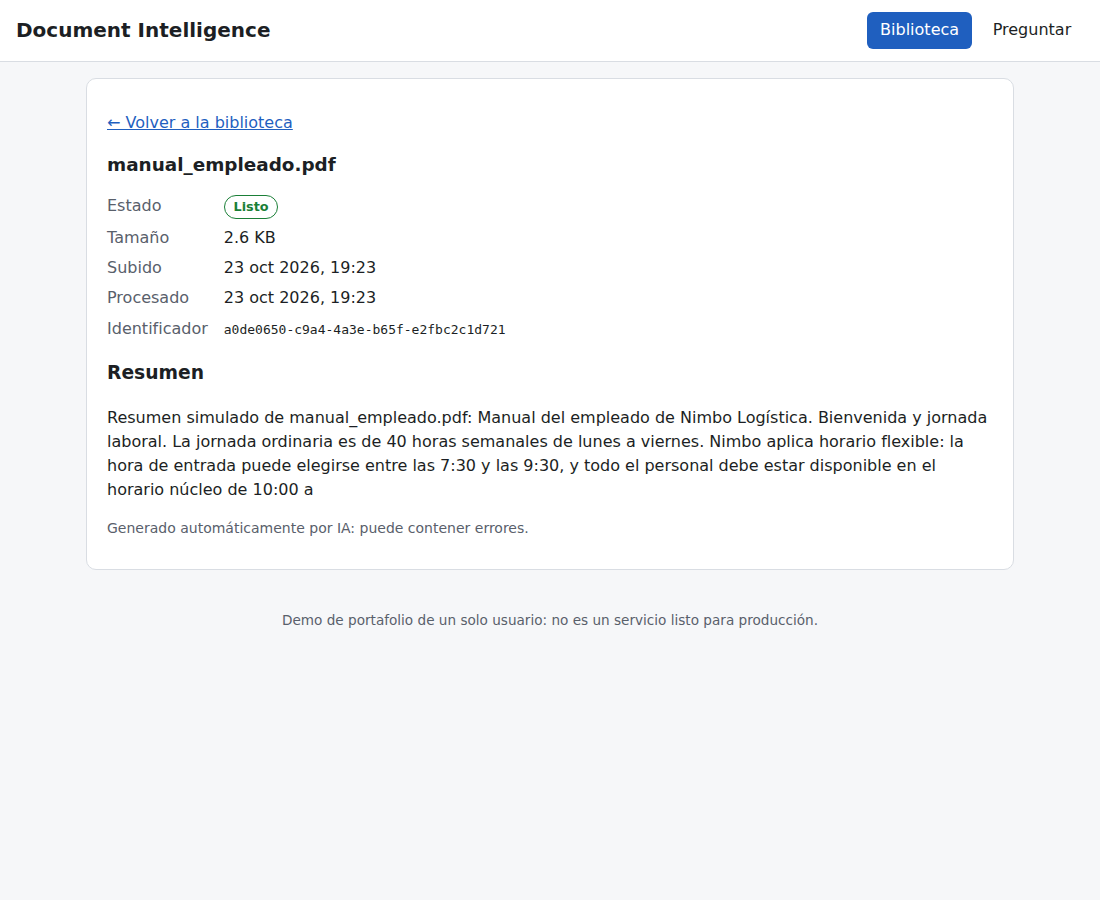
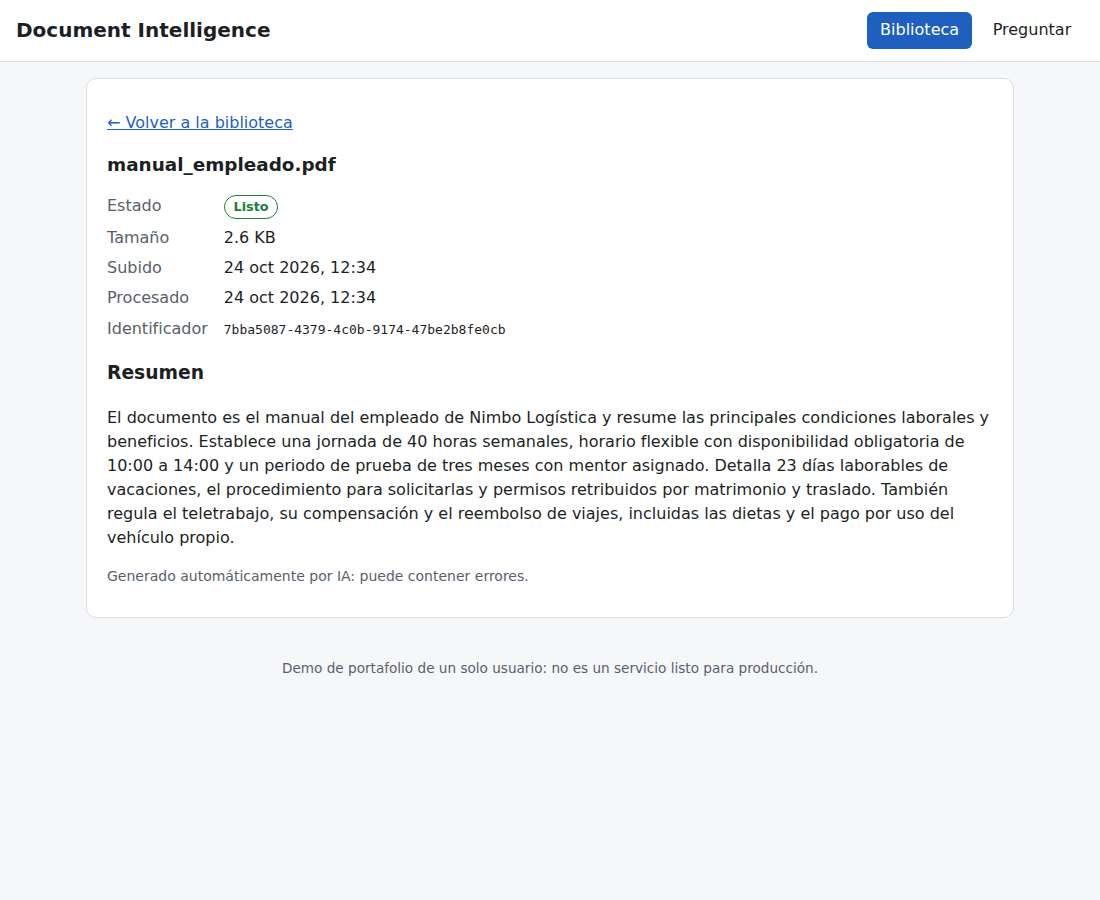
Capturas con respuestas y resúmenes reales de OpenAI

Changed region(s): [[0.0927, 0.4356, 0.8964, 0.6533], [0.2473, 0.6844, 0.7418, 0.7467], [0.1855, 0.28, 0.4636, 0.3733]]

diff --git a/README.md b/README.md
@@ -19,9 +19,8 @@ extracto. Si los documentos no contienen la respuesta, lo dice en lugar de inven
 | **Detalle con resumen** | **Sin evidencia (modo oscuro)** |
 | ![Detalle de un documento con su resumen](docs/images/documento.png) | ![Aviso de que los documentos no contienen la respuesta](docs/images/sin-evidencia.png) |
 
-<sub>Capturas con documentos ficticios del conjunto de evaluación y proveedores **falsos**
-(sin IA): por eso la «respuesta» y el «resumen» son el inicio del texto encontrado. Con OpenAI
-son texto redactado por el LLM.</sub>
+<sub>Capturas con documentos ficticios del conjunto de evaluación y OpenAI
+(`text-embedding-3-small` + `gpt-6-luna`): la respuesta y el resumen los redacta el LLM.</sub>
 
 ## Inicio rápido (Docker)
 
@@ -418,5 +417,3 @@ Metodología, resultados e interpretación en [`docs/rag-evaluation.md`](docs/ra
   palabras); ver [hallazgos de la evaluación](docs/rag-evaluation.md#hallazgos-y-mejoras-posibles).
 - **Sin historial de conversación**: cada pregunta es independiente.
 - **Almacenamiento local**: los archivos viven en un volumen del servidor (S3 en la Fase 8).
-- **Las capturas usan los proveedores falsos**: falta añadir capturas con respuestas reales
-  del LLM (requiere saldo en OpenAI).
